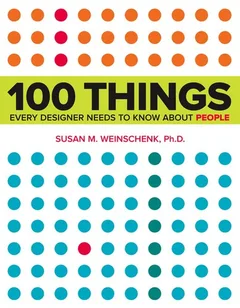
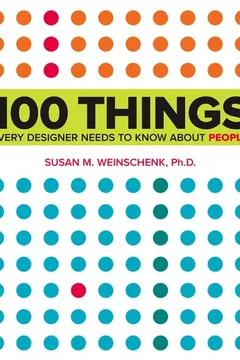
Las portadas de los libros miden todas lo mismo, sin recortar ninguna
Open Library devuelve escaneos con proporciones distintas —de 0,64 a 0,83—,
y la estanteria conservaba la de cada uno: las mas apaisadas quedaban mas
bajas y la balda se veia desigual.

Recortar a 2:3 lo arreglaba pero se comia hasta un 24% del ancho de tres
portadas. Asi que se extiende el lienzo en vez de recortar: la banda que
falta se rellena con el color promedio del borde de la propia portada, que
en la mayoria es un fondo plano y no se nota. Las diez salen a 240x360
exactos y la caja del CSS ya no tiene que adivinar nada.

Queda en fetch-books.mjs, no como retoque manual, para que un re-fetch no
vuelva a desigualarlas.

Aviso: «100 Things» y «El camino del artista» se siguen viendo cortadas por
los lados, pero eso ya viene en el escaneo de origen —no lo hace el recorte
nuestro, que ahora es cero—. Se arregla sustituyendo esas dos imagenes.

diff --git a/components/about/bookshelf.module.css b/components/about/bookshelf.module.css
@@ -1,7 +1,11 @@
 .shelf { list-style: none; margin: 0; padding: 0; display: grid; grid-template-columns: repeat(auto-fill, minmax(128px, 1fr)); gap: var(--sp-32) var(--sp-24); }
 .book { display: grid; gap: 6px; align-content: start; }
-.slot { aspect-ratio: 2 / 3; display: flex; align-items: flex-end; justify-content: center; margin-bottom: 8px; }
-.cover { max-width: 100%; max-height: 100%; width: auto; height: auto; border-radius: 4px; box-shadow: 0 1px 2px rgba(18,19,23,.08), 0 8px 24px rgba(18,19,23,.10); }
+/* Todas las portadas ocupan exactamente la misma caja 2:3. Antes cada una
+   conservaba su proporción y las apaisadas quedaban más bajas que el resto:
+   la estantería se veía desigual. El título y el autor van escritos debajo,
+   así que recortar los bordes de la imagen no pierde información. */
+.slot { aspect-ratio: 2 / 3; margin-bottom: 8px; }
+.cover { width: 100%; height: 100%; object-fit: cover; object-position: center; border-radius: 4px; box-shadow: 0 1px 2px rgba(18,19,23,.08), 0 8px 24px rgba(18,19,23,.10); }
 .fallback { width: 100%; height: 100%; display: flex; flex-direction: column; justify-content: space-between; padding: 14px 12px; border-radius: 4px; background: var(--inset-bg); color: var(--inset-ink); box-shadow: 0 1px 2px rgba(18,19,23,.08), 0 8px 24px rgba(18,19,23,.10); }
 .fTitle { font-size: var(--fs-500); font-weight: 500; line-height: 1.15; letter-spacing: -0.01em; }
 .fAuthor { font-size: var(--fs-100); color: var(--inset-ink-2); }
